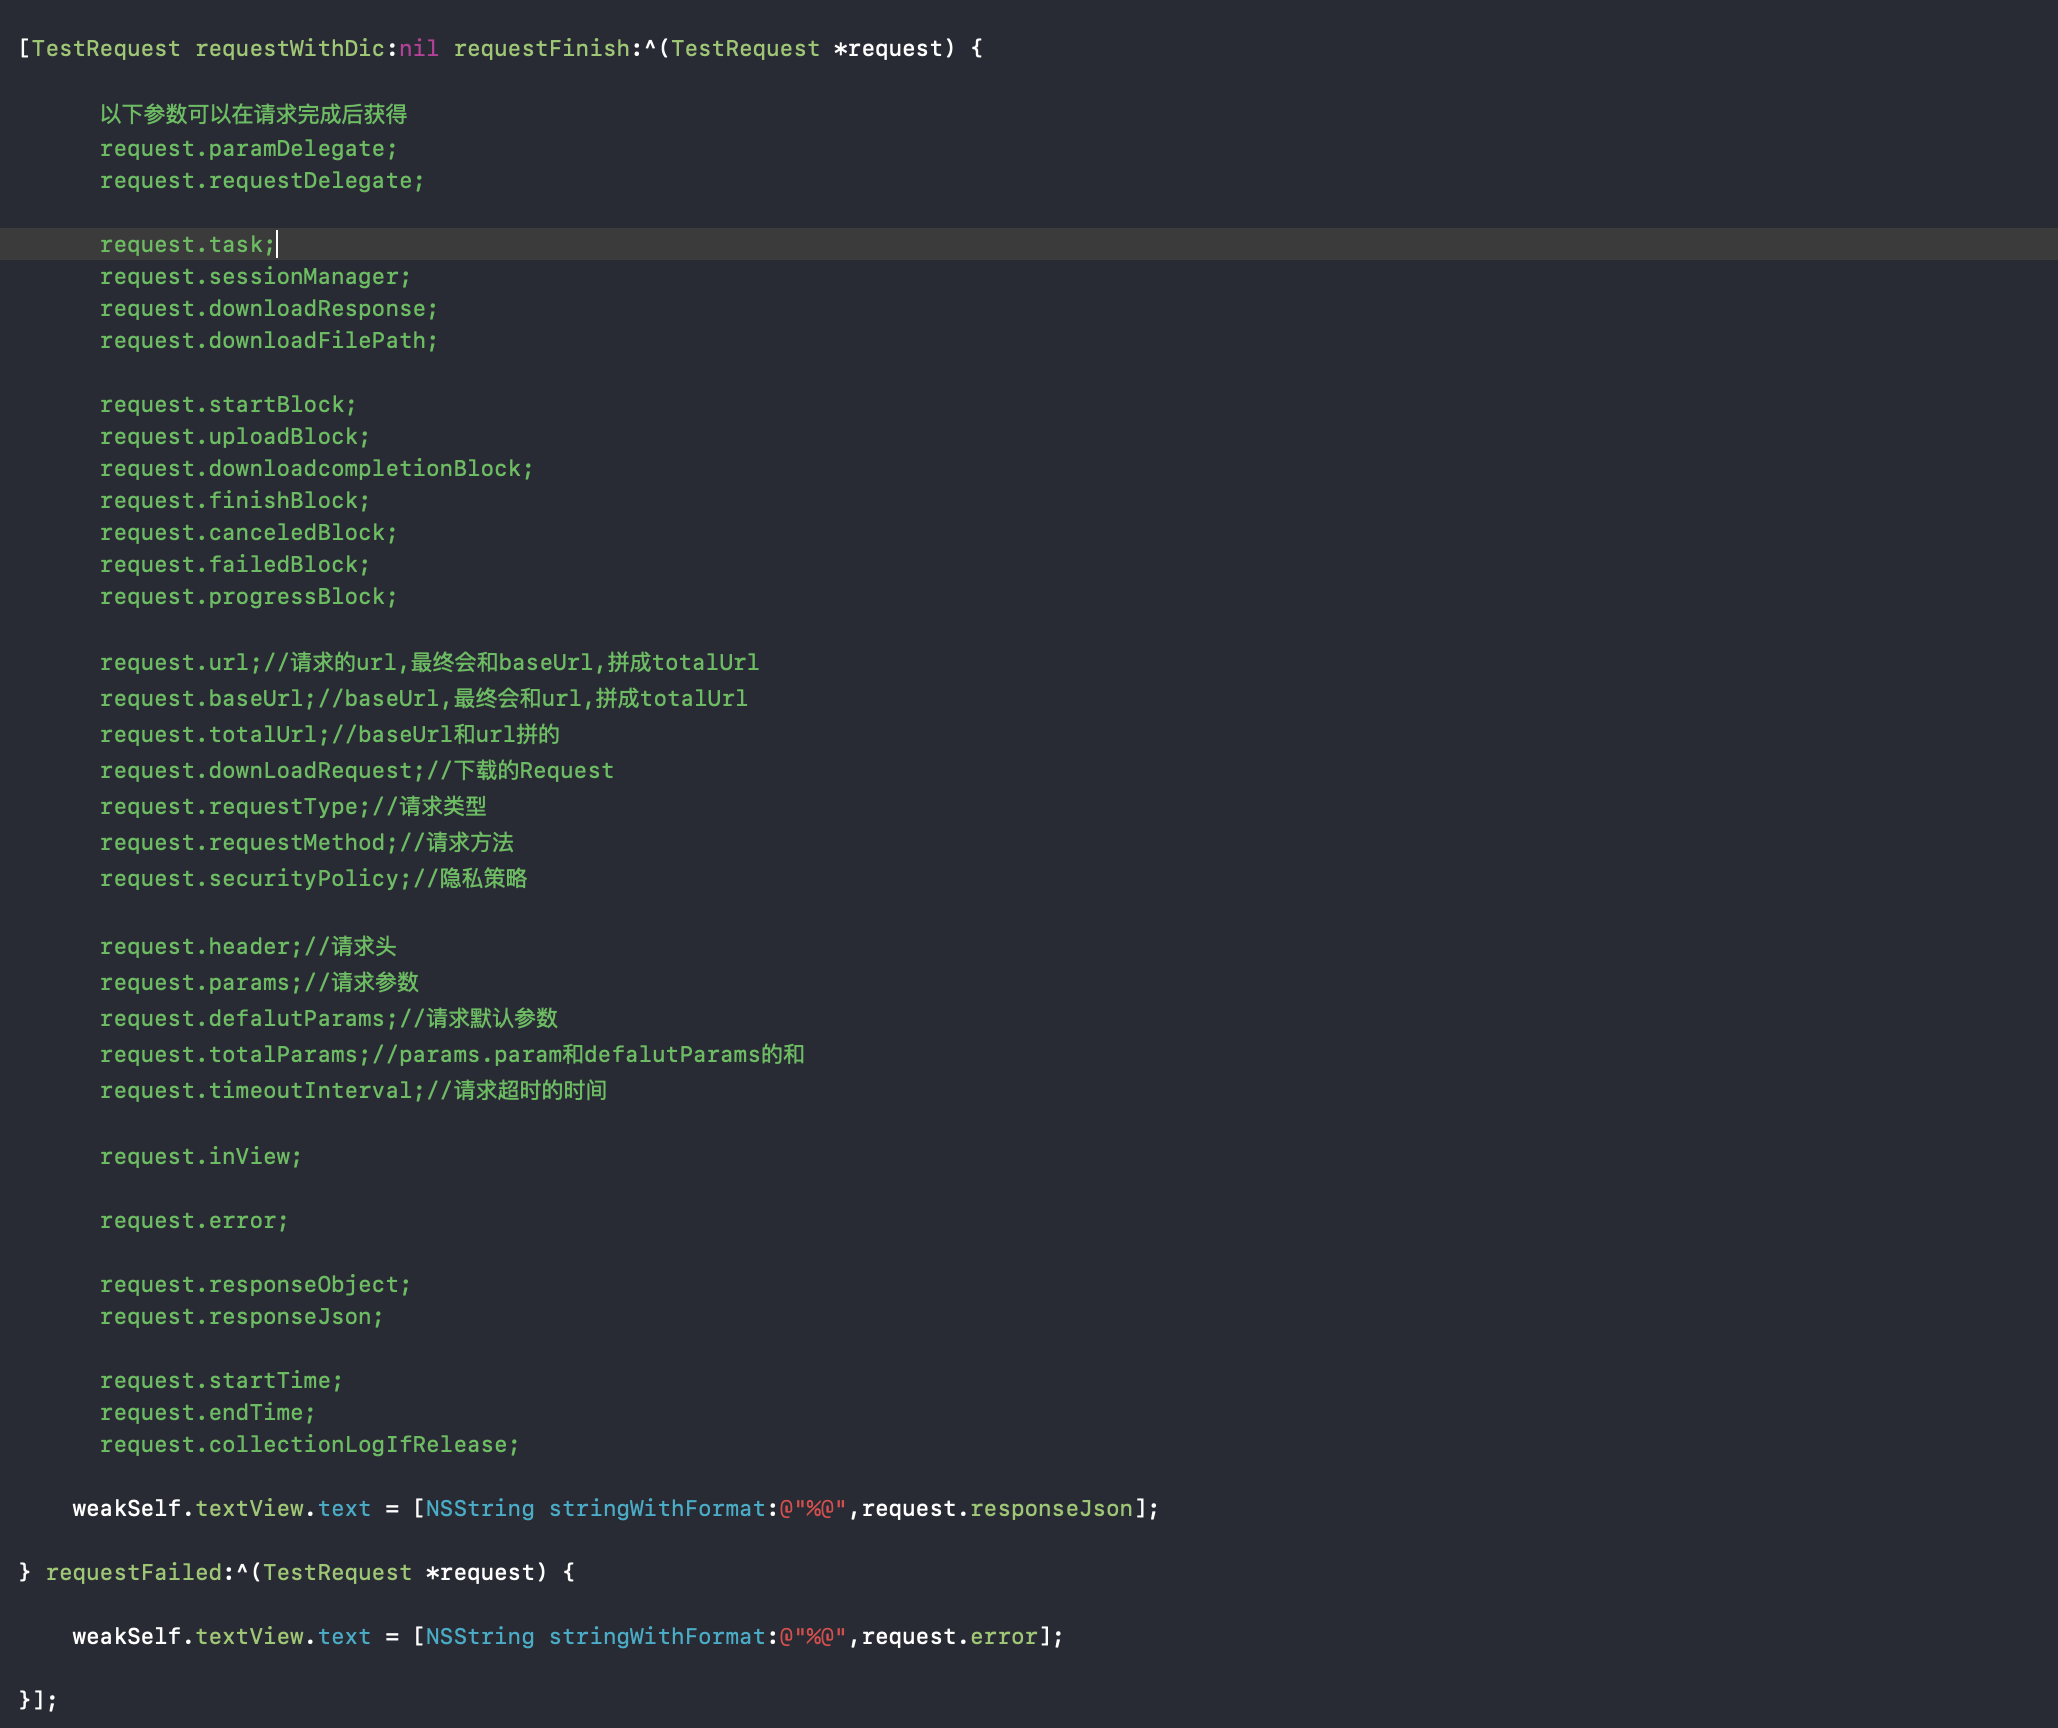
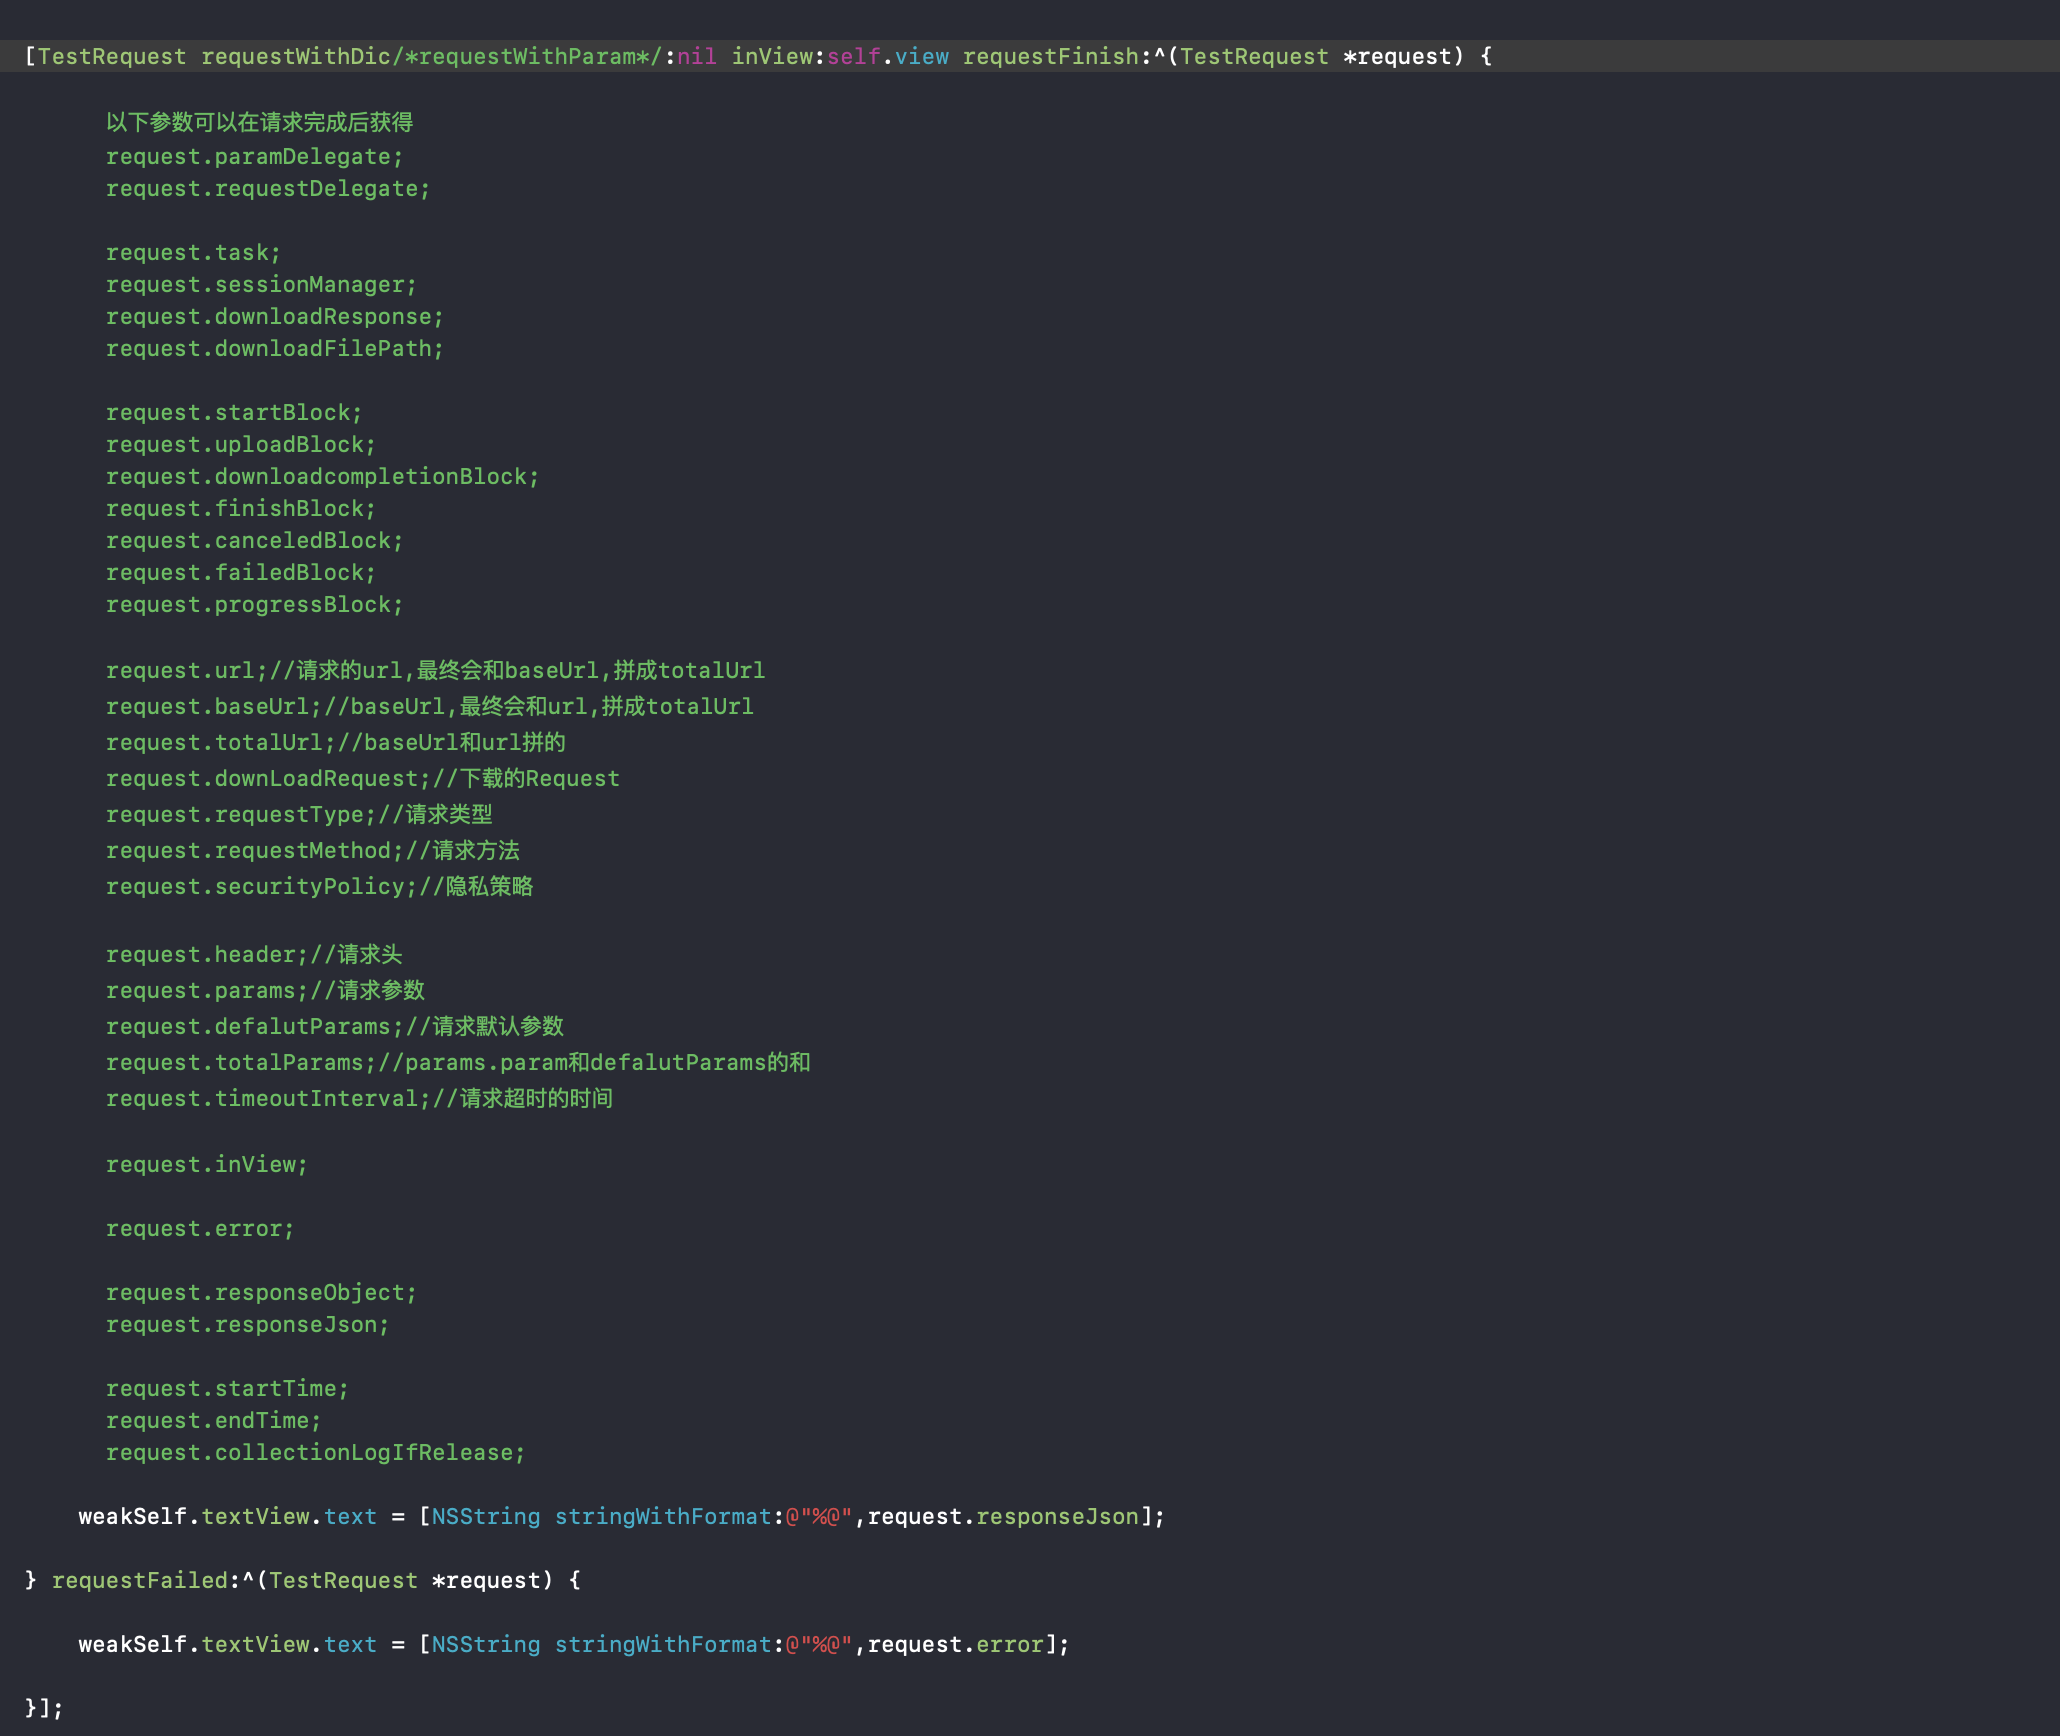
修改demo

diff --git a/TFRequestDemo/TFRequestDemo/ViewController.m b/TFRequestDemo/TFRequestDemo/ViewController.m
@@ -47,7 +47,8 @@
     self.textView.text = @"";
     __weak __typeof(self)weakSelf = self;
     
-    [TestRequest requestWithDic:nil requestFinish:^(TestRequest *request) {
+    
+    [TestRequest requestWithDic/*requestWithParam*/:nil inView:self.view requestFinish:^(TestRequest *request) {
         
 //        以下参数可以在请求完成后获得
 //        request.paramDelegate;
